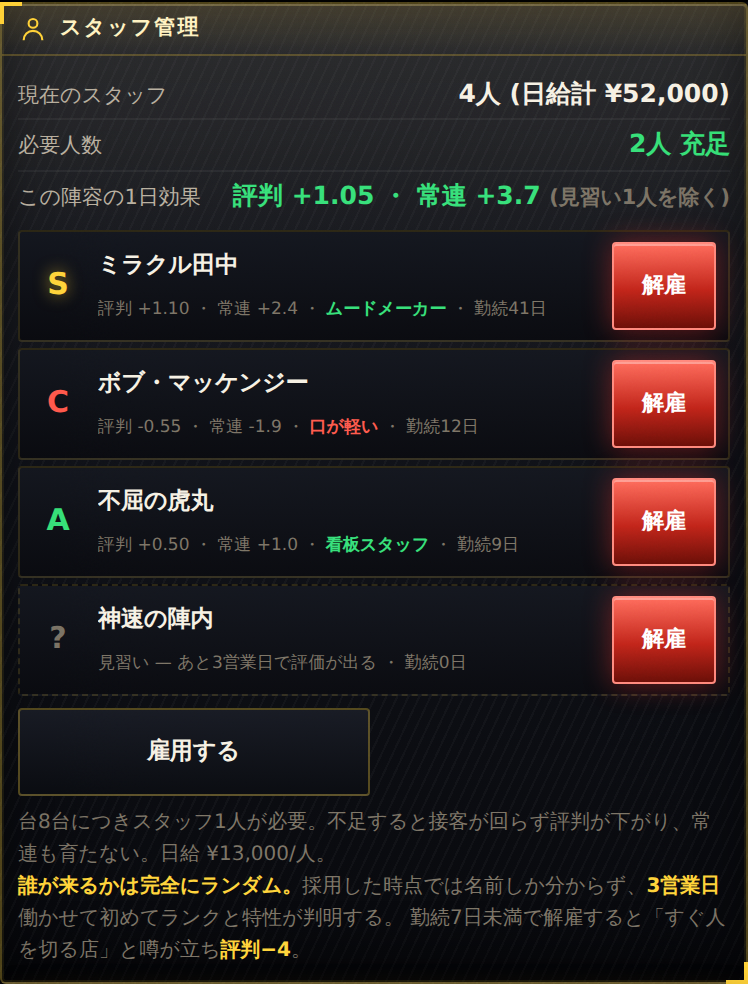
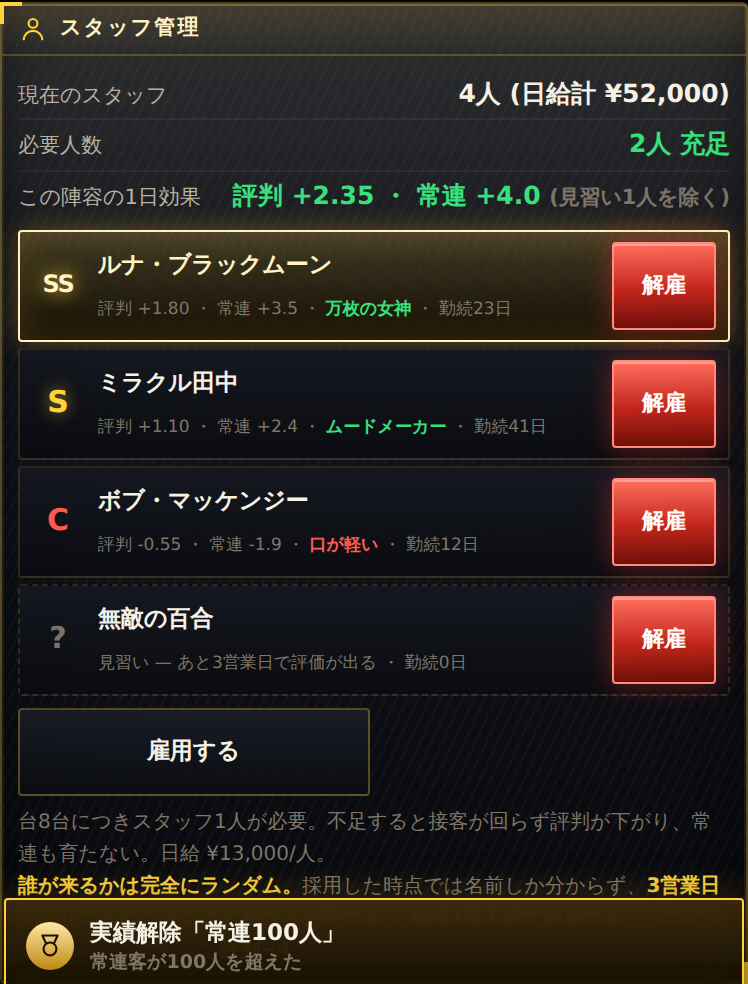
feat(pachinko): 壊れ人材5人を追加(SSランク・固有特性・3%抽選)
通常の200人名鑑とは別枠で、5人だけ存在する「壊れ」枠を用意した。
採用のたびに3%でこの枠を引く(名鑑200人の構成比には影響しない)。

## 5人と固有特性
- ルナ・ブラックムーン 「万枚の女神」   常連 +6.0/日
- ドン・カルロッサ    「呼び込みの帝王」 評判 +2.5/日
- 寡黙の甚八        「台と話す男」   全台の人気 +1.20/日(台が枯れない)
- ダブル鷹司        「二刀流」     評判 +1.2 / 常連 +3.0 /日
- 大番頭ジョーカー    「伝説の店長」   スタッフ全員の効果が1.5倍

全員 SSランク(接客 +1.80 / 常連 +3.5)を基礎値として持ち、その上に固有特性が乗る。
固有特性は重み0で登録してあるので通常のスタッフには絶対に付かない。
名簿では金枠+SSバッジで光り、判明時の通知も👑になる。
壊れ枠も試用期間は同じで、3営業日働かせるまでSSかどうか分からない。

## 効果
  陣容                    クリア日
  スタッフ層なし              82日
  平均的な引き(全員B)          82日
  全員S+ムードメーカー          65日
  壊れ1人 + あとB            64日   ← 1人で全員S級の陣容に匹敵
  壊れ5人全員               62日   ← 評判100の頭打ちで伸びは鈍る
  全員C+口が軽い             114日
1人引くだけで−18日。5人揃えても62日止まりなのは、評判が100で
飽和し日次上限にも当たるため(最適化プレイの下限60日を割らない)。

## 実績
「引きが強すぎる」(壊れ人材を採用した) と
「ドリームチーム」(壊れ人材を同時に2人抱えた) を追加。実績は 73 → 75種。

## 検証
- 静的回帰ガード 45 PASS / 0 FAIL
- ランタイムガード 107 PASS / 0 FAIL(壊れ枠3項目を新規追加:
  5人いて名鑑200人と名前が重複しない / SSランクで固有特性を持ち
  固有特性の重みが0 / 名鑑にSSが混ざらず20,000回の抽選で出現率が
  ST_LEGEND_P(3%)に一致する)
- 破壊テスト 27 PASS / 0 FAIL
- 難易度: easy 58 / normal 66 / hard 96日 — 前回から変化なし
- 360 / 390 / 430px で横スクロール0・コンソールエラー0

Claude-Session: https://claude.ai/code/session_01PWbmi5TXhmABMkaNNGiaUH

diff --git a/pachinko/guard/runtime-guard.js b/pachinko/guard/runtime-guard.js
@@ -138,11 +138,32 @@ const ok = (n, c, d='') => { if (c) { pass++; console.log('  PASS  ' + n); } els
       return p.length === 3 && p[0].length > 0 && !/[A-Za-z\u0400-\u04FF]/.test(p[0])
         && ST_RANK[p[1]] && ST_TRAIT[p[2]];
     })));
-    ok('FN 採用は名鑑の中から引かれ、在籍者と重複しない', await p.evaluate(() => {
-      const names = new Set(ST_POOL.map(x => x.split('|')[0]));
+    ok('FN 採用は名鑑か壊れ枠から引かれ、在籍者と重複しない', await p.evaluate(() => {
+      const names = new Set(ST_POOL.concat(ST_LEGEND).map(x => x.split('|')[0]));
       const taken = stState().list.map(m => m.nm);
-      for (let i = 0; i < 200; i++) { const m = stMake(false); if (!names.has(m.nm) || taken.includes(m.nm)) return false; }
+      for (let i = 0; i < 400; i++) { const m = stMake(false); if (!names.has(m.nm) || taken.includes(m.nm)) return false; }
       return true;
+    }));
+    // ---- 壊れ人材 ----
+    ok('FN 壊れ人材が5人いて、名鑑200人と名前が重複しない', await p.evaluate(() => {
+      const pool = new Set(ST_POOL.map(x => x.split('|')[0]));
+      const lg = ST_LEGEND.map(x => x.split('|')[0]);
+      return ST_LEGEND.length === 5 && new Set(lg).size === 5 && !lg.some(n => pool.has(n));
+    }));
+    ok('FN 壊れ人材はSSランクで固有特性を持つ', await p.evaluate(() => ST_LEGEND.every(x => {
+      const p = x.split('|');
+      return p[1] === 'SS' && ST_TRAIT[p[2]] && ST_TRAIT[p[2]].w === 0 && ST_RANK.SS.serve > ST_RANK.S.serve;
+    })));
+    ok('FN 壊れ人材は通常抽選に混ざらず、指定の確率でだけ出る', await p.evaluate(() => {
+      // 名鑑200人にSSはいない
+      if (ST_POOL.some(x => x.split('|')[1] === 'SS')) return false;
+      // 固有特性は通常の重み抽選に出ない(w=0)
+      const normal = Object.keys(ST_TRAIT).filter(k => ST_TRAIT[k].w > 0);
+      if (normal.some(k => /^lgd_/.test(k))) return false;
+      let ss = 0;
+      for (let i = 0; i < 20000; i++) if (stMake(false).r === 'SS') ss++;
+      const rate = ss / 20000;
+      return Math.abs(rate - ST_LEGEND_P) < 0.012;
     }));
     ok('FN スタッフの能力に金銭ペナルティがない(給与は完全一律)', await p.evaluate(() => {
       // ランクは接客力と集客力しか持たず、特性にも資金を減らすものがない
@@ -199,12 +220,12 @@ const ok = (n, c, d='') => { if (c) { pass++; console.log('  PASS  ' + n); } els
     ok('FN 損益推移グラフ', await p.evaluate(() => !!document.querySelector('#chartWrap svg')));
     ok('FN 営業成績一覧', await p.evaluate(() => document.querySelectorAll('#ledgerBody .led').length > 0));
     await p.evaluate(() => setArea('ach')); await p.waitForTimeout(200);
-    // 保護定数 ACHIEVEMENTS の15件は「基本」グループとして必ず全件描画される(拡張58件は別グループ)
+    // 保護定数 ACHIEVEMENTS の15件は「基本」グループとして必ず全件描画される(拡張60件は別グループ)
     ok('FN 実績一覧', await p.evaluate(() => {
       const rows = [...document.querySelectorAll('#achList .ach')];
       const names = rows.map(e => e.querySelector('.n').textContent);
       const BASE = ['開店初日','日給100万','地域の優良店','常連の店','中堅ホール','巨艦店','1ヶ月経営','特日の神','お上の世話','信用第一','軌道に乗る','パチスロ帝国','初当たり体験','事故連発生','ドル箱タワー'];
-      return rows.length === 73 && BASE.every(n => names.includes(n));
+      return rows.length === 75 && BASE.every(n => names.includes(n));
     }));
     // ---- 全国 / 地方進出 / 国取り ----
     await p.evaluate(() => setArea('map')); await p.waitForTimeout(200);
